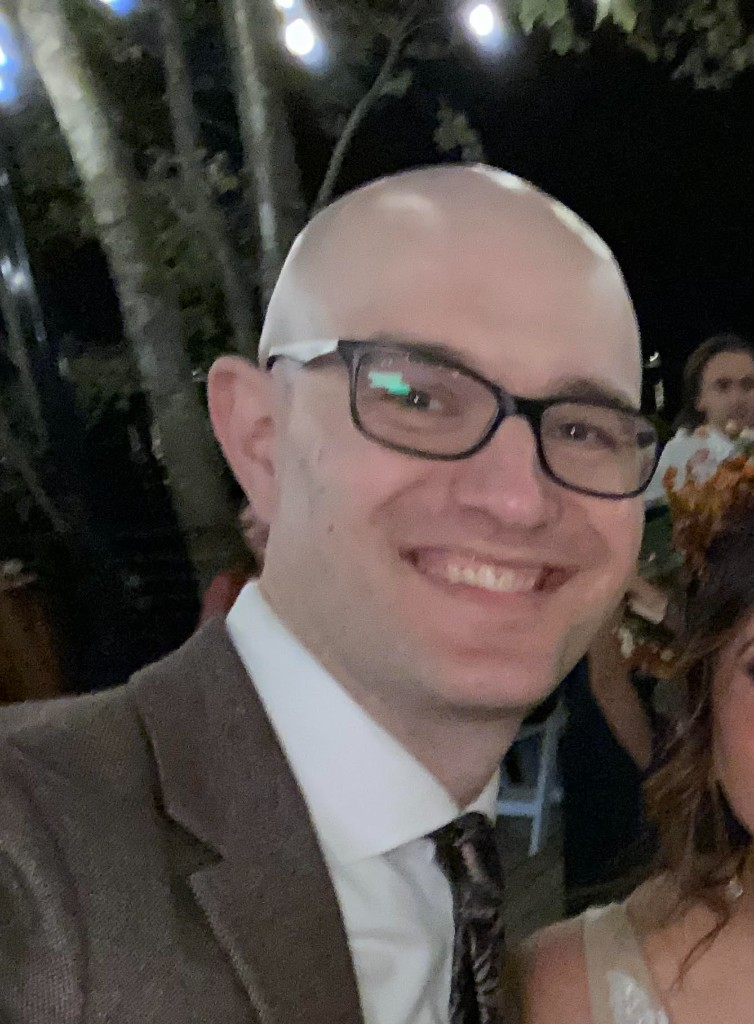
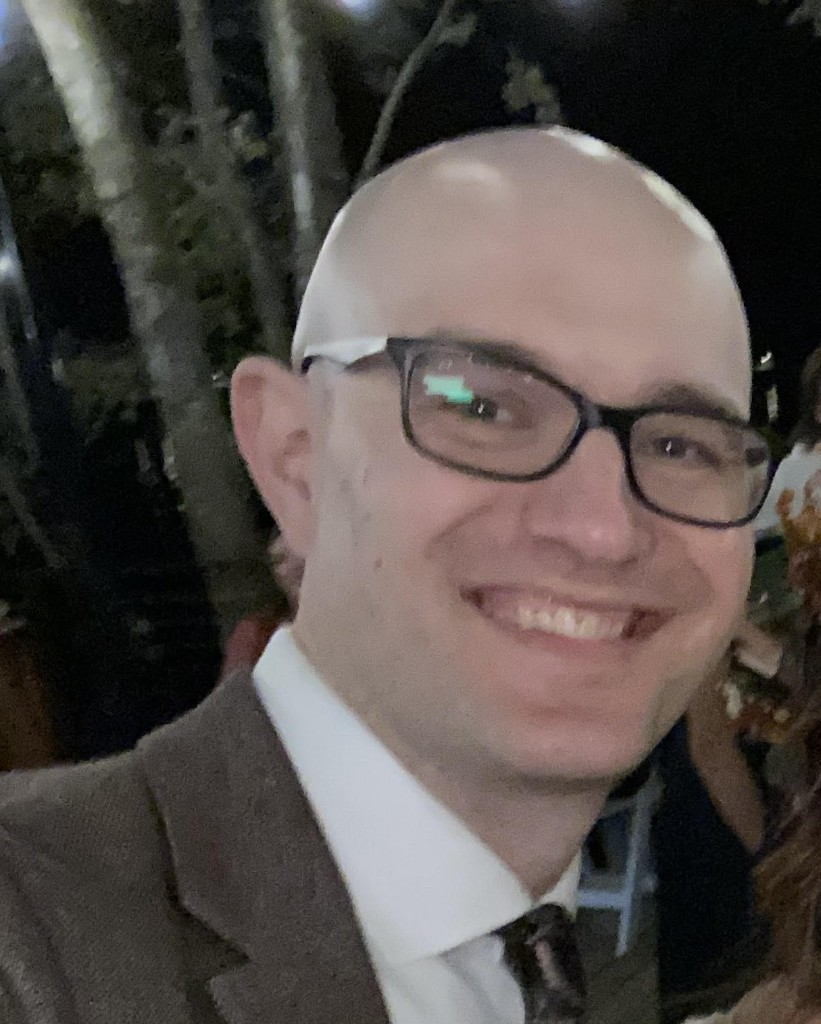
About: swap headshot v2, shrink photo ~30%
Replace brian-about.png and set max frame 196px (was 280px); grid column matches.

Made-with: Cursor

diff --git a/app/about/page.tsx b/app/about/page.tsx
@@ -123,7 +123,7 @@ export default function AboutPage() {
             style={{
               position: "relative",
               width: "100%",
-              maxWidth: 280,
+              maxWidth: 196,
               aspectRatio: "3 / 4",
               borderRadius: 16,
               overflow: "hidden",
@@ -134,11 +134,11 @@ export default function AboutPage() {
           >
             <Image
               src="/brian-about.png"
-              alt="Brian, creator of bestcareerfor.me"
+              alt="Professional headshot of Brian, creator of bestcareerfor.me"
               fill
-              sizes="(max-width: 900px) 280px, 320px"
+              sizes="(max-width: 900px) 196px, 196px"
               priority
-              style={{ objectFit: "cover", objectPosition: "50% 20%" }}
+              style={{ objectFit: "cover", objectPosition: "50% 28%" }}
             />
           </div>
 
@@ -209,7 +209,7 @@ export default function AboutPage() {
       <style>{`
         @media (min-width: 900px) {
           .about-intro-grid {
-            grid-template-columns: minmax(220px, 280px) 1fr;
+            grid-template-columns: minmax(154px, 196px) 1fr;
             gap: 2.5rem;
           }
           .about-intro-grid > div:first-child {
